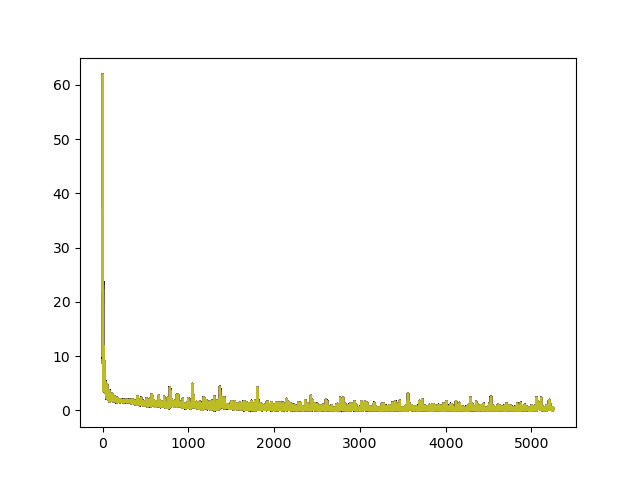
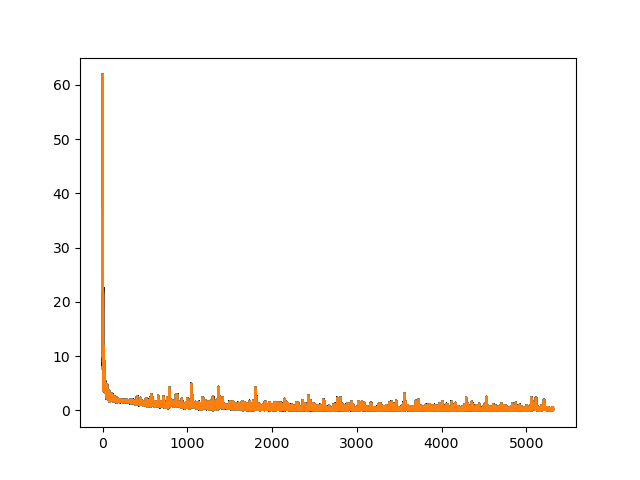
double loss

diff --git a/brainclip/model/network/brain_CLIP_model.py b/brainclip/model/network/brain_CLIP_model.py
@@ -1,3 +1,4 @@
+import torch
 import torch.nn as nn
 from transformers import DistilBertModel
 from torchvision.models.video import r3d_18
@@ -75,18 +76,14 @@ class BrainCLIP(nn.Module):
         super(BrainCLIP, self).__init__()
         self.image_encoder = image_encoder
         self.text_encoder = text_encoder
+        self.num_classes = num_classes
         self.image_projection = ProjectionHead(embedding_dim=self.image_encoder.embedding_size)
         self.text_projection = ProjectionHead(embedding_dim=self.text_encoder.embedding_size)
         self.temperature = 1.0 # no difference
+        # classification
+        self.fc = nn.Linear(self.image_projection.projection.projection_dim + self.text_projection.projection.projection_dim, num_classes)
 
-    def forward(self, image, input_id_report, attention_mask_report):
-        image_embedding = self.image_encoder(image)
-        text_embedding = self.text_encoder(input_id_report, attention_mask_report)
-
-        image_embeddings = self.image_projection(image_embedding)
-        text_embeddings = self.text_projection(text_embedding)
-
-        # Calculating the Loss
+    def contrastive_loss(self, text_embeddings, image_embeddings):
         logits = (text_embeddings @ image_embeddings.T) / self.temperature
         images_similarity = image_embeddings @ image_embeddings.T
         texts_similarity = text_embeddings @ text_embeddings.T
@@ -98,4 +95,24 @@ class BrainCLIP(nn.Module):
         loss =  (images_loss + texts_loss) / 2.0 # shape: (batch_size)
         return loss.mean()
 
+    def classification_loss(self, image_embeddings, text_embeddings, label):
+        embeddings = torch.cat((image_embeddings, text_embeddings), dim=1)
+        cls_output =  self.fc(embeddings)
+        ce_loss = nn.CrossEntropyLoss()
+        return ce_loss(cls_output, label)
+
+    def combined_loss(cls_loss, ctrs_loss):
+        return cls_loss + ctrs_loss
+
+    def forward(self, image, input_id_report, attention_mask_report, label):
+        image_embedding = self.image_encoder(image)
+        text_embedding = self.text_encoder(input_id_report, attention_mask_report)
+
+        image_embeddings = self.image_projection(image_embedding)
+        text_embeddings = self.text_projection(text_embedding)
+
+        # Calculating the Loss
+        cls_loss = self.classification_loss(image_embeddings, text_embeddings, label)
+        ctrs_loss = self.contrastive_loss(image_embeddings, text_embeddings)
+        return self.combined_loss(cls_loss, ctrs_loss)
 

diff --git a/brainclip/model/network/loops.py b/brainclip/model/network/loops.py
@@ -20,7 +20,7 @@ loss_history = []
 for epoch in range(num_epochs):
     for images, input_id_report, attention_mask_report, labels, _ in train_loader:
         optimizer.zero_grad()
-        loss = model(images, input_id_report, attention_mask_report,)
+        loss = model(images, input_id_report, attention_mask_report, labels)
         loss_history.append(loss.detach().numpy())
         update_png(loss_history, "brainclip")
         loss.backward()
